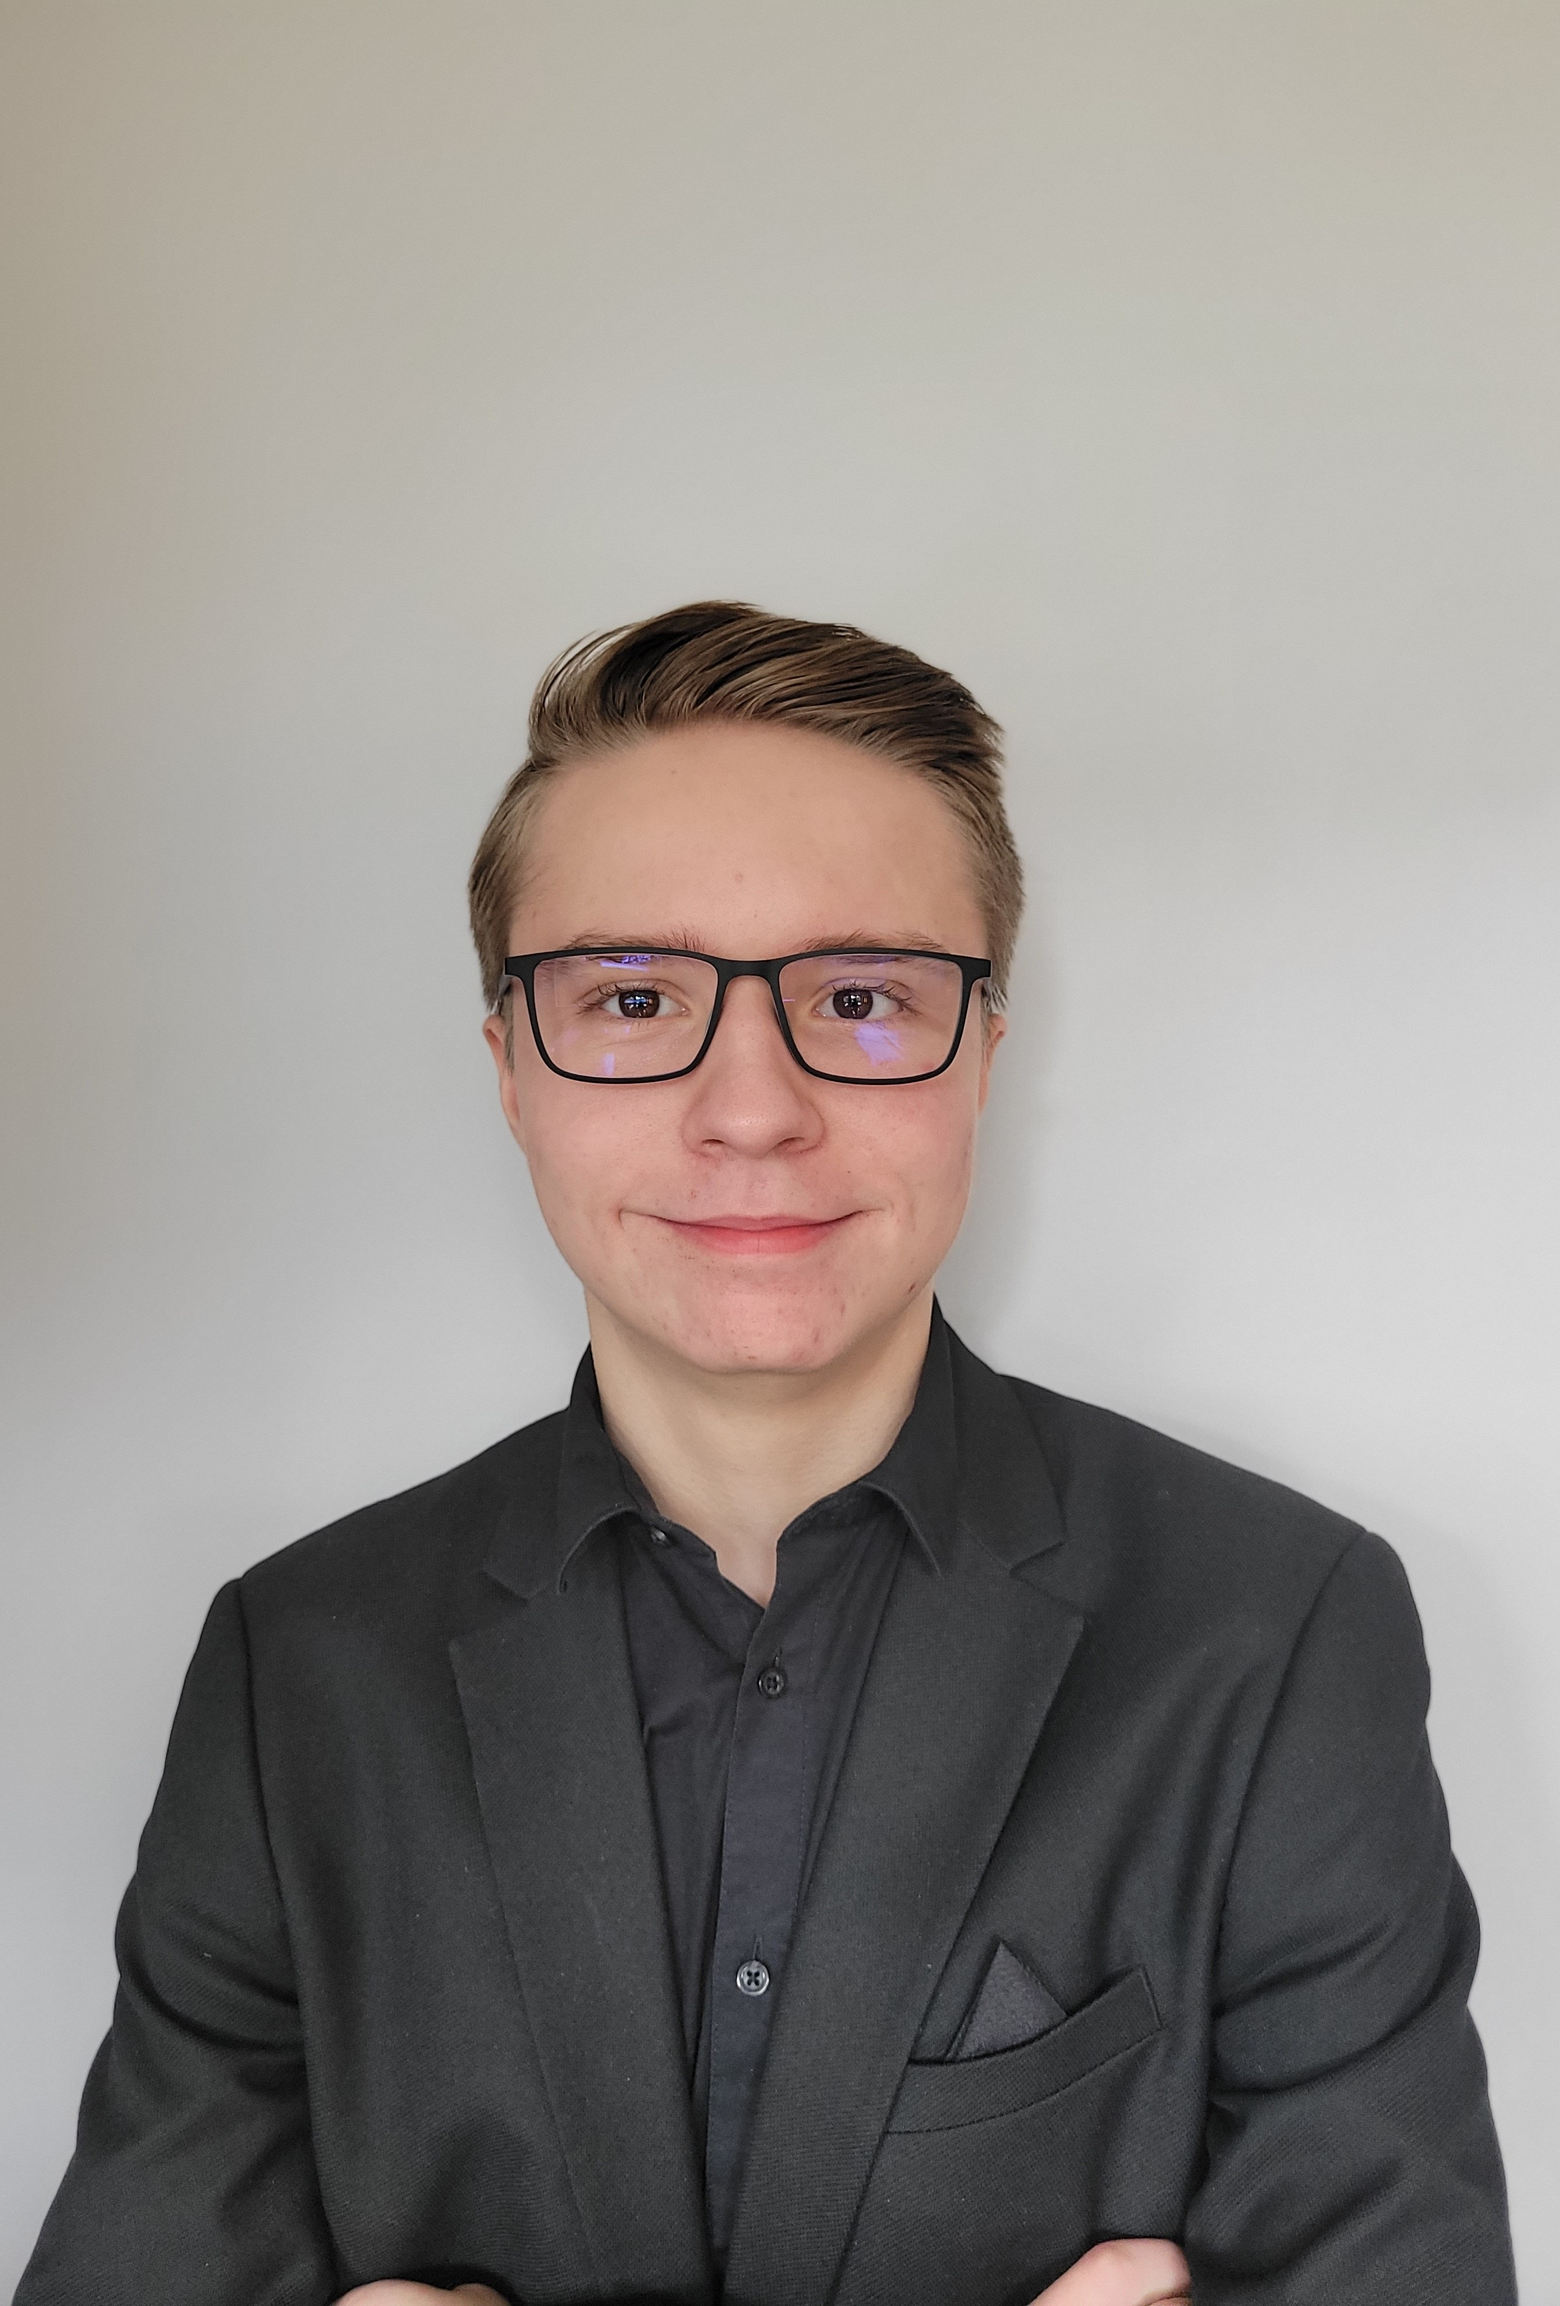
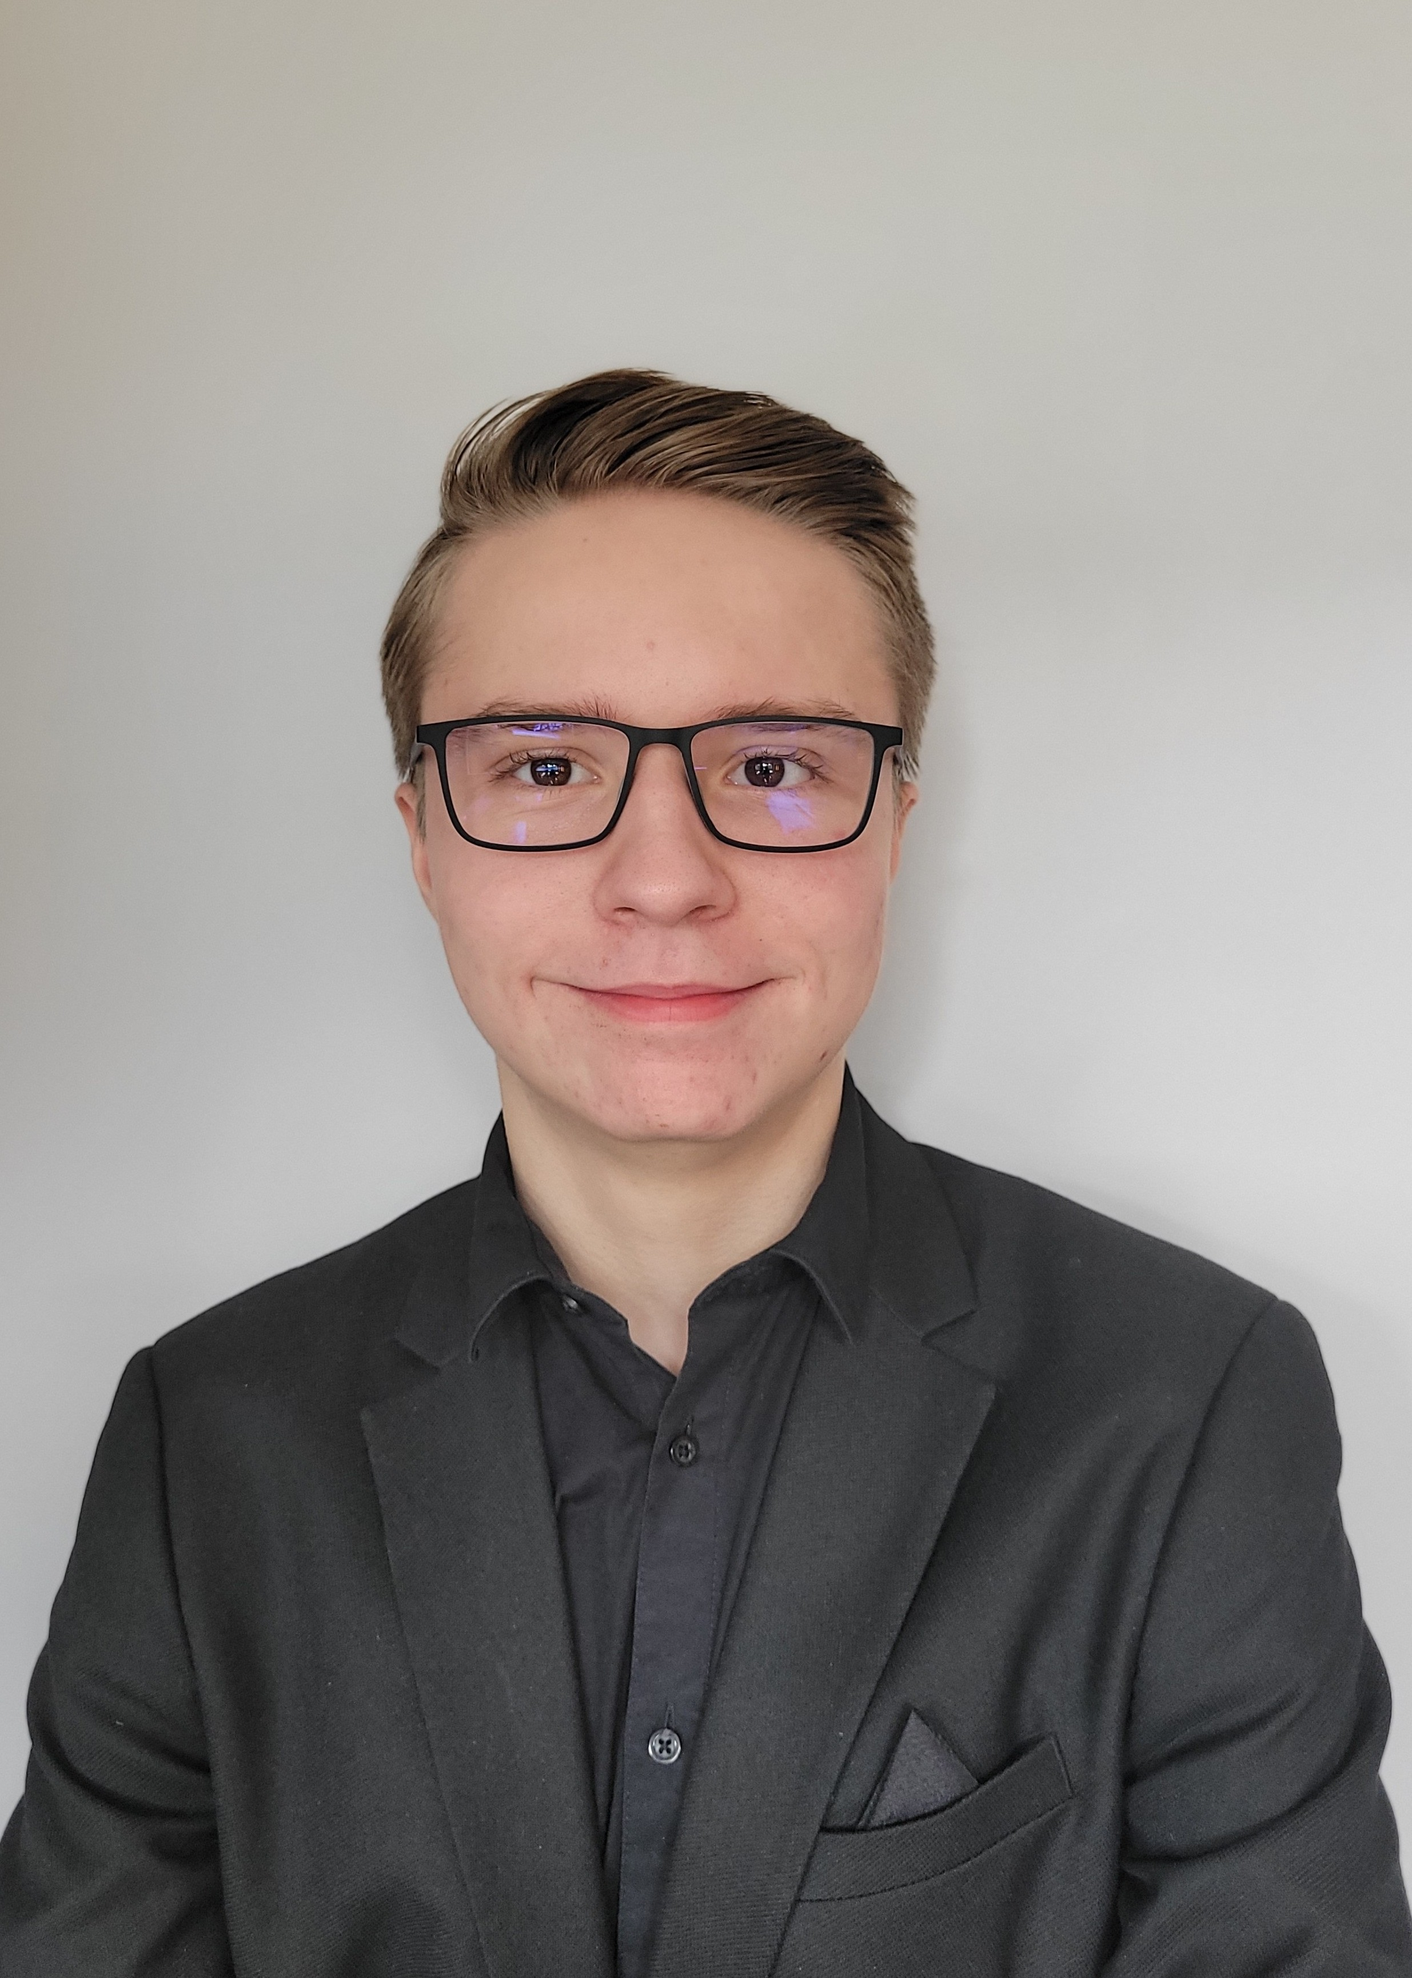
Finialisation modification CV en ligne (agencement compétences, modification titre et derniere modification de la photo de profil

diff --git a/index.html b/index.html
@@ -35,7 +35,7 @@
 
         <!-- Haut de page -->
         <header>
-            <h1>CV Stage T<sup>le</sup> SN RISC</h1>
+            <h1>CV Axel Pereira</h1>
         </header>
 
         <!-- Profil -->
@@ -167,21 +167,18 @@
                         <img src="src/img/css.png" alt="Logo CSS">
                         <div class="texte">
                             <h4>CSS</h4>
-                            <p>Flexbox et notion de GRID</p>
                         </div>
                     </div>
                     <div class="Python bottom-marg box" data-aos="zoom-in" data-aos-duration="500">
                         <img src="src/img/python.png" alt="Logo Python">
                         <div class="texte">
                             <h4>Python</h4>
-                            <p>Impérative et objet</p>
                         </div>
                     </div>
                     <div class="box SQL" data-aos="zoom-in" data-aos-duration="500">
                         <img src="src/img/database.png" alt="Illustration d'une base de donnée">
                         <div class="texte">
                             <h4>SQL</h4>
-                            <!-- <p>Requêtes de type CRUD</p> -->
                         </div>
                     </div>
                     <div class="box cpp" data-aos="zoom-in" data-aos-duration="500">
@@ -191,20 +188,6 @@
                             <p>Arduino</p>
                         </div>
                     </div>
-                    <!-- <div class="box PHP" data-aos="zoom-in" data-aos-duration="500">
-                        <img src="src/img/php.png" alt="Logo PHP">
-                        <div class="texte">
-                            <h4>PHP</h4>
-                            <p>Impérative et PDO</p>
-                        </div>
-                    </div>
-                    <div class="box JS" data-aos="zoom-in" data-aos-duration="500">
-                        <img src="src/img/js.png" alt="Logo JavaScript">
-                        <div class="texte">
-                            <h4>JavaScript</h4>
-                            <p>Impérative et DOM</p>
-                        </div>
-                    </div> -->
                 </div>
                 <h3>Administration Système :</h3>
                 <div class="systeme">
@@ -228,7 +211,7 @@
                             <h4>Virtualisation</h4>
                         </div>
                     </div>
-                    <div class="GLPI bottom-marg box" data-aos="zoom-in" data-aos-duration="500">
+                    <div class="glpi bottom-marg box" data-aos="zoom-in" data-aos-duration="500">
                         <img src="src/img/glpi.png" alt="Logo GLPI">
                         <div class="texte">
                             <h4>GLPI</h4>
@@ -242,7 +225,7 @@
                         </div>
                     </div>
                 </div>
-                <h3>Administration Réseau</h3>
+                <h3>Administration Réseau :</h3>
                 <div class="reseau">
                     <div class="protocoles bottom-marg box" data-aos="zoom-in" data-aos-duration="500">
                         <img src="src/img/network.png" alt="Illustration d'un réseau informatique">
@@ -254,7 +237,7 @@
                     <div class="routage bottom-marg box" data-aos="zoom-in" data-aos-duration="500">
                         <img src="src/img/routing.png" alt="Illustration d'un rotueur WiFi">
                         <div class="texte">
-                            <h4>Routage statique/dynamique</h4>
+                            <h4>Routage statique & dynamique</h4>
                             <p>RIPv2, OSPF</p>
                         </div>
                     </div>
@@ -285,30 +268,6 @@
                         </div>
                     </div>
                 </div>
-                <!-- <h3>Systèmes et réseaux Informatiques :</h3>
-                <div class="comp-reseaux">
-                    <div class="box sys" data-aos="zoom-in" data-aos-duration="500">
-                        <img src="src/img/os.png" alt="Illustration d'engrenage avec 'OS' au centre">
-                        <div class="texte">
-                            <h4>Admin Système</h4>
-                            <p>Linux, Windows</p>
-                        </div>
-                    </div>
-                    <div class="box res" data-aos="zoom-in" data-aos-duration="500">
-                        <img src="src/img/network.png" alt="Illustration réseaux informatique">
-                        <div class="texte">
-                            <h4>Admin réseaux</h4>
-                            <p>TCP/IP, VLAN, Routage</p>
-                        </div>
-                    </div>
-                    <div class="box install" data-aos="zoom-in" data-aos-duration="500">
-                        <img src="src/img/entretien.png" alt="Illustration d'un serveur">
-                        <div class="texte">
-                            <h4>Installation / Maintenance</h4>
-                            <p>Ordinateurs, Périphériques et Windows</p>
-                        </div>
-                    </div>
-                </div> -->
                 <h3>Autres compétences :</h3>
                 <div class="autre-comp">
                     <div class="hab-elec" data-aos="zoom-in" data-aos-duration="500">

diff --git a/src/css/sections/competences.css b/src/css/sections/competences.css
@@ -12,7 +12,7 @@
     font-weight: 300;
 }
 
-.sectionC .contenue .langages {
+.sectionC .contenue .langages, .systeme, .reseau {
     display: flex;
     justify-content: space-evenly;
     margin-top: 100px;
@@ -51,9 +51,13 @@
     margin-right: 15px;
 }
 
-/*.sectionC .contenue .langages .SQL {
+.sectionC .contenue .langages .SQL {
     height: 140px
-}*/
+}
+
+.sectionC .contenue .langages .cpp {
+    height: 140px;
+}
 
 .sectionC .contenue .comp-reseaux {
     display: flex;
@@ -98,12 +102,7 @@
 
 /* Laptop L */
 @media screen and (max-width: 1440px) {
-    .sectionC .contenue .langages {
-        flex-direction: column;
-        align-items: center;
-    }
-
-    .sectionC .contenue .comp-reseaux {
+    .sectionC .contenue .langages, .systeme, .reseau {
         flex-direction: column;
         align-items: center;
     }
@@ -144,11 +143,24 @@
         flex-wrap: wrap;
     }
 
-    .sectionC .contenue .langages .HTML {
+    .sectionC .contenue .langages .HTML, .CSS, .Python, .cpp {
         width: 300px;
     }
 
+    .sectionC .contenue .langages .SQL {
+        width: 300px;
+        height: 200px;
+    }
+
     .sectionC .contenue .langages .cpp {
+        height: 250px;
+    }
+
+    .sectionC .contenue .systeme .glpi {
+        width: 300px;
+    }
+
+    .sectionC .contenue .reseau .voip {
         width: 300px;
     }
 
@@ -175,23 +187,31 @@
 /* Mobile L */
 @media screen and (max-width: 425px) {
     
-    .sectionC .contenue .langages .HTML, .CSS, .SQL {
+    .sectionC .contenue .langages .HTML, .CSS, .SQL, .Python {
         width: 350px;
     }
 
-    .sectionC .contenue .comp-reseaux .install {
-        width: 300px;
+    .sectionC .contenue .systeme .linux, .windows, .virtualisation, .glpi, .conf-sys {
+        width: 350px;
+    }
+
+    .sectionC .contenue .reseau .protocoles, .routage, .conf-reseau, .securite, .voip, .wireshark {
+        width: 350px;
     }
 }
 
 /* Mobile M */
 @media screen and (max-width: 376px) {
 
-    .sectionC .contenue .langages .HTML, .CSS, .SQL {
-        width: 200px;
+    .sectionC .contenue .langages .HTML, .CSS, .SQL, .Python {
+        width: 300px;
     }
 
-    .sectionC .contenue .comp-reseaux .sys, .res, .install {
+    .sectionC .contenue .systeme .linux, .windows, .virtualisation, .glpi, .conf-sys {
+        width: 300px;
+    }
+
+    .sectionC .contenue .reseau .protocoles, .routage, .conf-reseau, .securite, .voip, .wireshark {
         width: 300px;
     }
 }
@@ -199,7 +219,11 @@
 /* Mobile S */
 @media screen and (max-width: 320px) {
 
-    .sectionC .contenue .langages .PHP, .JS, .Python {
+    .sectionC .contenue .langages .HTML, .CSS, .Python {
+        width: 250px;
+    }
+
+    .sectionC .contenue .langages .SQL {
         width: 250px;
     }
 
@@ -207,12 +231,28 @@
         width: 250px;
     }
 
-    .sectionC .contenue .comp-reseaux .sys, .res {
-        width: 260px;
+    .sectionC .contenue .systeme .linux, .windows, .glpi {
+        width: 250px;
     }
 
-    .sectionC .contenue .comp-reseaux .install {
-        width: 260px;
+    .sectionC .contenue .systeme .glpi {
+        width: 250px;
+    }
+
+    .sectionC .contenue .systeme .virtualisation, .conf-sys {
+        width: 270px;
+    }
+
+    .sectionC .contenue .reseau .protocoles, .routage, .securite, .wireshark {
+        width: 250px;
+    }
+
+    .sectionC .contenue .reseau .voip {
+        width: 250px;
+    }
+    
+    .sectionC .contenue .reseau .conf-reseau {
+        width: 270px;
     }
 
     .sectionC .contenue .autre-comp .hab-elec h4 {
